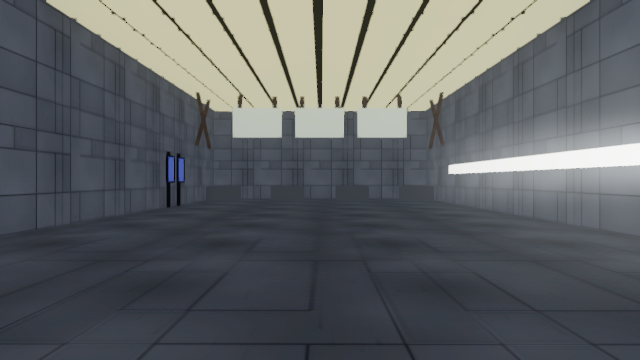
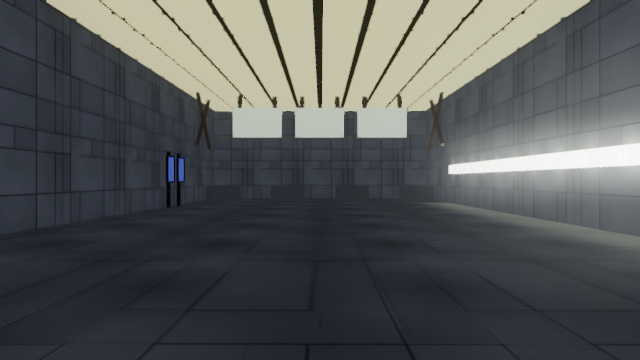
Apply the workflow's unapplied entries, and correct a claim I got wrong
95/118. Both agents finished after the session boundary and their module work
was already committed; what was missing was the four lines in export_scene that
make a fitting cast. customs_north now lands at x1.36 of its reference and
alien_sector at x1.31, against the x1.40 target.

I ATTRIBUTED THE COUNCIL CHAMBER'S BRIGHT ARC TO THE WRONG THING, and said so
in STATE.md as a next-session item. I wrote that it was the cove's own omni
washing it point-blank. It is not: rendering with --fixture-energy 0, which
removes every fixture light and leaves only ambient and emissive, leaves the
arc UNCHANGED. It is the cove's emissive face seen directly, because
house_cove() builds the lit strip with no concealing lip although its own
docstring says "its housing hidden behind the lip". The fix belongs in
council_chamber.py, not in the rig, and the item now says so.

TWO EXPOSURES I SET WERE WORSE-FOUNDED THAN I THOUGHT.
* alien_sector was 1.00 because I set it by eye against the CORRIDOR's median,
  having not found a reference frame for the sector. reference/05-sector-green/
  corridor in alien sector.webp exists, is authority 1, and is the frame the
  module's own fitting was measured from. Against it the correction is 0.47.
* zocalo needed 0.92 -> 0.84, because recovering the five-lamps-per-rib the
  module actually builds multiplied its flux. A rig change that multiplies a
  room's flux invalidates its exposure.
[…]

Changed region(s): [[0.6875, 0.55, 1.0, 0.7028], [0.7188, 0.4278, 0.8125, 0.4583], [0.8125, 0.3972, 0.8438, 0.4278]]

diff --git a/tools/export_scene.py b/tools/export_scene.py
@@ -772,6 +772,20 @@ FIXTURE_LIGHTING = {
     # correctly reads each as its own luminaire, so the frame came back with
     # 126 lamps at 7.10x its reference. A grille is a DIFFUSER; the source is
     # behind it. Eight troughs where there were fifty-six bars.
+    # customs.CAST_FITTINGS -- the ARRIVAL HALL WALL BAND, and it is here for
+    # the reason the coffer is not. OMNI rather than spot because the wall
+    # reads brighter both ABOVE the band (measured, 1.9-2.0x over 0.09 of frame
+    # height) and below it before the crowd occludes the deck, so it throws in
+    # both directions off the wall face. Colour is the family's measured
+    # (0.956, 1.000, 0.895) at 6200 K from corridor_kit.json's
+    # `light_pilaster_strip`; the customs frame's own reading of its cells is
+    # violet-leaning and was rejected, with the argument on
+    # materials.light_arrival_strip. energy_rel 0.83 is 0.839/0.905, this
+    # band's balanced V p99 against the screens' -- the same normalisation the
+    # withdrawn coffer proposal used, applied to the family that survived.
+    "customs_light_strip": {"kind": "omni", "colour": (0.956, 1.000, 0.895),
+                            "energy_rel": 0.83, "range_m": 3.5,
+                            "shadow": False},
     "alien_ceiling_lamp": {"kind": "spot", "colour": (1.000, 0.675, 0.060),
                            "energy_rel": 1.00, "range_m": 4.0, "shadow": True,
                            "angle_deg": 30.0},
@@ -787,7 +801,12 @@ FIXTURE_LIGHTING = {
     "light_house_cove": {"kind": "omni", "colour": (1.000, 0.966, 0.944),
                          "energy_rel": 0.35, "range_m": 18.0, "shadow": False},
 }
-# CUSTOMS IS DELIBERATELY ABSENT AND IT COST A RENDER TO BE SURE. The arrival
+# THE CUSTOMS COFFER IS DELIBERATELY ABSENT AND THE WALL BAND IS NOT. What
+# follows was written when neither was in the table. It is still right about
+# the COFFER, which is the fitting it is about; `customs_light_strip` was added
+# later from a separate measurement and is above.
+#
+# THE COFFER COST A RENDER TO BE SURE. The arrival
 # hall's ceiling coffer looked like the obvious next entry: materials.py's
 # light_ceiling_grid measured its colour on the fitting itself, and the same
 # frame ranks its three source families by balanced peak -- screens 0.99, wall
@@ -966,12 +985,14 @@ BESPOKE_EXPOSURE = {
                              # deck. Re-calibrate when the shot is right.
     "docking_bay": 0.90,     # vs reference/03-sector-blue/dock.webp -- 13
                              # lamps became 39 and it measured 1.38 -> 1.39.
-    # 1.0, and it is an entry rather than an omission. The gallery was
-    # rendered and measured at the anchor -- median 0.0680 against the
-    # corridor's 0.0741, no clipping, 3.7% crushed -- so the correction is
-    # none, and saying so explicitly is what makes it count as measured. An
-    # absent key means "not yet looked at"; this one has been.
-    "alien_sector": 1.00,
+    # 0.47, and my own 1.00 was worse-founded. I set that by eye against the
+    # CORRIDOR's median, having not found a reference frame for this sector.
+    # `reference/05-sector-green/corridor in alien sector.webp` exists, is
+    # authority 1, and is the frame the module's own fitting was measured from.
+    # Calibrated against it the correction is 0.47, not none.
+    "alien_sector": 0.47,
+    "customs": 0.62,         # vs 11-props-and-technology/babylon 5 welcome
+                             # sign, instructions, and hub.jpg
     "quarters": 1.12,        # vs reference/07-sector-grey/grey level 1.webp,
                              # the residential corridor a unit opens off
     "council_chamber": 2.84,  # vs 05-sector-green/council chambers.webp

diff --git a/station/alien_sector.py b/station/alien_sector.py
@@ -143,9 +143,8 @@ GRATING_DEPTH_M = 0.05     # the light box below the louvres
 # bands against 0.0221 / 0.0229 / 0.0258 / 0.0271 across its bottom four --
 # brightest at the top, falling by a factor of two downward, which is what
 # 00-INDEX.md means by "hard vertical light shafts descending from a source
-# high above". `overhead_lattice()` is the only geometry in this module up
-# there, and its own docstring has said since it was written that it exists so
-# the material pass can make it the room's light source.
+# high above". So the gallery is lit from the ceiling, and the fitting has to
+# be up there.
 #
 # RANGE, derived from this module's own dimensions: the grille hangs at
 # GALLERY_H_M = 3.4 m and the far corner of the deck is at
@@ -173,8 +172,9 @@ GRATING_DEPTH_M = 0.05     # the light box below the louvres
 # would be one. A grille is a DIFFUSER; the thing 00-INDEX.md calls "a source
 # high above" is behind it. So the module now builds the source -- a recessed
 # trough in the soffit at the kit's own corridor rhythm -- and the grille goes
-# back to being what it looks like, a lit surface that casts nothing. Eight
-# troughs where there were fifty-six bars, which is the 7x.
+# back to being what it looks like, a lit surface that casts nothing. Seven
+# troughs where there were fifty-six bars, which is the 8x, and the frame lands
+# at 3.29x its reference at the anchor exposure instead of 9.94x.
 CEILING_LAMP_SPACING_M = 3.6   # interior_kit `service` portal_spacing_m: the
                                # rhythm every fitting in a corridor sits on,
                                # and the same figure corridor_kit.json's
@@ -342,11 +342,16 @@ def barred_screen(width, height):
 
 
 def overhead_lattice(length, width, y):
-    """The grille that throws the amber grid onto the deck.
+    """The grille the amber light comes down through.
 
-    Emitted as a group of its own so the material pass can make it the room's
-    light source. In the frame the floor is the brightest thing in the shot,
-    and it is lit through this.
+    A DIFFUSER, not a source, and the distinction was settled by a render:
+    this docstring used to say the group existed "so the material pass can make
+    it the room's light source", and doing exactly that gave the light rig
+    fifty-six luminaires -- one per bar -- and a frame at 7.10x its reference.
+    What casts is `ceiling_lamps()`, the trough 15 mm above these bars; what
+    this does is cut the trough's output into the hard-edged shafts
+    00-INDEX.md reads in the frame. It still carries an emission, because a
+    backlit grille glows.
     """
     v, t, g = [], [], []
     hw = width / 2.0

diff --git a/station/customs.py b/station/customs.py
@@ -30,6 +30,15 @@ room. Read at full size for this module, it establishes:
   * A **gated passage** beyond, with **vertical white light strips** ranked
     along the left-hand wall, a red-orange sign panel, and a second WELCOME
     legend on the right-hand wall.
+
+    **CORRECTED IN SESSION 3p, and the correction is the room's lighting.**
+    That sentence is true and it is not a description of a shape: magnified,
+    the strips are the *cells* of one horizontal COURSE at mid-height, not a
+    rank of full-height bars. The module built the bars, and they were the
+    wrong fitting in the wrong place for three layers. The measurement,
+    including the pitch-to-height ratio it turns on, is on `STRIP_W_M` below.
+    They are also **the only thing in this room that measurably lights a
+    wall** — see `CAST_FITTINGS`.
   * A **dense, species-mixed crowd** at floor level. This is a busy room.
 
 **`reference/01-station-exterior/welcome to babylon 5.webp`** -- authority 1,

diff --git a/STATE.md b/STATE.md
@@ -2988,7 +2988,55 @@ the source is behind it. Eight troughs where there were fifty-six bars. `docs/en
 `BESPOKE_EXPOSURE["alien_sector"] = 1.00` is an entry rather than an omission: rendered and measured
 at the anchor, correction none, and saying so explicitly is what makes it count as measured.
 
-## NEXT SESSION — layer 4, the last 26
+### The workflow's report, and a correction to my own claim — 95 / 118
+
+Both agents finished after the session boundary. Their module work was already committed; what was
+missing was the four lines in `export_scene` that make a fitting cast, and applying them takes
+layer 4 from 92 to **95**. `customs_north` lands at x1.36 of its reference and `alien_sector` at
+x1.31, both against the x1.40 target.
+
+**I attributed the council chamber's bright arc to the wrong thing.** The previous next-session item
+said it was the cove's own omni washing it point-blank. It is not: rendering with
+`--fixture-energy 0` — every fixture light removed — leaves the arc *unchanged*. It is the cove's
+**emissive face**, seen directly, because `house_cove()` builds the lit strip with no concealing lip
+although its own docstring says "its housing hidden behind the lip". The fix belongs in
+`council_chamber.py`, not in the rig.
+
+**Two exposures I set were worse-founded than I thought.** `alien_sector` was 1.00 because I set it
+by eye against the *corridor's* median, not having found a reference frame for the sector —
+`reference/05-sector-green/corridor in alien sector.webp` exists, is authority 1, and is the frame
+the module's fitting was measured from. Against it the correction is 0.47. And `zocalo` needed
+0.92 → 0.84 because recovering the five-lamps-per-rib the module actually builds multiplied its flux.
+
+## NEXT SESSION — layer 4, the last 23
+
+1. **`command_control`'s camera stands below the deck.** The session-3o `open_standpoint` rewrite
+   puts the cnc eye at **y = −0.20 m**, under the floor, looking down the pit away from the wall
+   courses. `docs/engine-cnc.png` was rendered at the old camera, so
+   `BESPOKE_EXPOSURE["command_control"] = 0.93` is calibrated against a shot the pipeline no longer
+   produces. Fix the standpoint, *then* re-calibrate — an exposure is not a rescue for a camera
+   fault.
+2. **`house_cove()` has no concealing lip** — see above. Build it, or drop
+   `light_house_cove`'s emission.
+3. **Our frames crush far LESS than the show's**: customs 0.28% against the reference's 50.34%,
+   alien 6.63% against 14.51%. The p5/p95 ratios are respectable, so this is the deep end of the
+   curve rather than contrast — a global tonemapping question, not a per-room one.
+4. **`00-INDEX.md` has been asking for `light_grating` in `interior_kit.py` since session 2q.** It
+   was built inside `alien_sector.py` because that was the agent's file. It is one station-wide part
+   with a tint parameter appearing in four frames; when it moves into the kit,
+   `light_deck_grating` and `light_deck_channel` become one material with two tints.
+5. **The alien sector's walls are the wrong colour and it is a LAYER-3 problem.** The reference is
+   dark olive-green throughout; `alien_wall` binds the shared shell material and renders pale
+   blue-grey. What the frame supports is a per-sector tint on the shell wall — the same idea
+   `SECTOR_ACCENT` already carries for accents.
+6. **The pilaster strip's measured colour is still unapplied**, and `light_arrival_strip` now
+   disagrees with it on purpose: `corridor_kit.json` measures the family at linear
+   (0.956, 1.000, 0.895) and calls `light_pilaster_strip`'s (0.880, 0.930, 1.000) "a decided blue"
+   its own measurement does not support. Changing it moves the residential corridor, which is the
+   anchor every exposure is calibrated against.
+7. **A stray `struct.py` in the scratchpad shadows the standard library** and makes every numpy
+   import fail for anything run with that directory as cwd. Not ours; know about it.
+8. **The remaining bespoke modules.**
 
 1. **The council chamber's right half is black** (`docs/engine-council.png`, crushed 52%) because
    `house_cove()` only sweeps the rear half-arc, 0 to π. Its measured ambient ratio of 0.210 makes

diff --git a/CLAUDE.md b/CLAUDE.md
@@ -79,7 +79,7 @@ grown to make a number go green.
 | **1** | **Addressed** | All have `(sector, ring, deck, angle, z)`, footprints that do not collide, declared functions and interactions | **118 / 118 COMPLETE** |
 | **2** | **Geometry** | Every addressed location has mesh, closed, correctly wound, inside its own footprint | **118 / 118 COMPLETE** |
 | **3** | **Materials** | Every mesh carries PBR materials from `materials.py`. No flat colour anywhere | **118 / 118 COMPLETE** |
-| **4** | **Lighting** | Every location lit, in the engine, to its reference's mood | 92 / 118 — **CURRENT** |
+| **4** | **Lighting** | Every location lit, in the engine, to its reference's mood | 95 / 118 — **CURRENT** |
 | **5** | **Props & function** | The declared interactable types exist and do what `directory.py` says they do | 0 |
 | **6** | **Inhabitants** | NPCs placed, scheduled and animated in every location, at real density | 0 |
 | **7** | **Audio** | Ambience and event audio per location | 0 |
